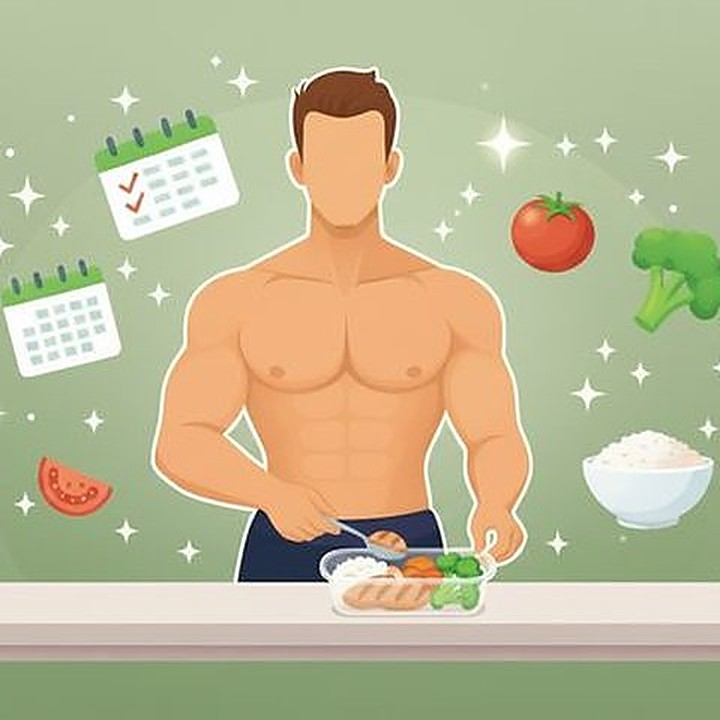
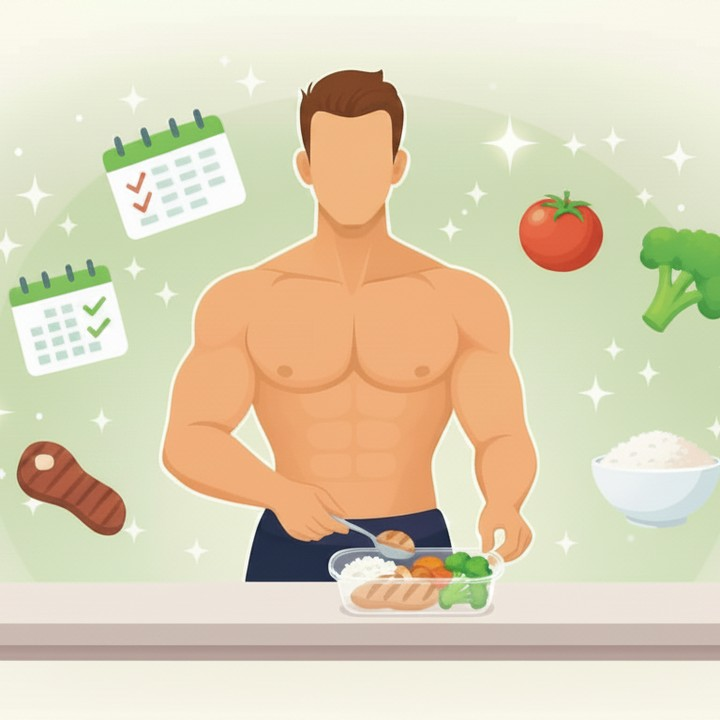
feat(tour): imagens HD novas + backup das originais (v2.1.92)
Usuário regenerou as 7 imagens no Whisk com qualidade HD (1344x768,
~1.4MB cada em PNG). Pipeline refeito sem perda de qualidade:

- tour-images/originals/tour-N.png — backup das PNGs originais preservado
  em git (9.8 MB total) pra regenerações futuras
- tour-images/tour-N.jpg — processado com center crop 768x768 + downscale
  LANCZOS pra 720x720, quality 90, optimize=True
- Sem upscale intermediário — downscale 768→720 é quase nulo, mantém
  praticamente toda a nitidez original
- Tamanho final: ~54-72 KB por imagem (2x retina pra card 340px)

SW v2.1.91 → v2.1.92, cache busters → 2192 (inclui src de tour-card-img)

diff --git a/index.html b/index.html
@@ -17,7 +17,7 @@
 <script src="https://www.gstatic.com/firebasejs/10.12.0/firebase-auth-compat.js"></script>
 <script src="https://www.gstatic.com/firebasejs/10.12.0/firebase-firestore-compat.js"></script>
 <script src="https://cdnjs.cloudflare.com/ajax/libs/jspdf/2.5.1/jspdf.umd.min.js"></script>
-<link rel="stylesheet" href="styles.css?v=2191">
+<link rel="stylesheet" href="styles.css?v=2192">
 <script>
   // v2.1.37: aplica o tema (data-theme) ANTES do CSS pintar pra evitar flash.
   // v2.1.51: default é 'light'. Usuário pode mudar pra 'dark' ou 'auto' no
@@ -635,8 +635,8 @@
 </div><!-- /app-container -->
 
 <script src="glyphs.js?v=2114"></script>
-<script src="data.js?v=2191"></script>
-<script src="legal-docs.js?v=2191"></script>
-<script src="app.js?v=2191"></script>
+<script src="data.js?v=2192"></script>
+<script src="legal-docs.js?v=2192"></script>
+<script src="app.js?v=2192"></script>
 </body>
 </html>

diff --git a/app.js b/app.js
@@ -4884,7 +4884,7 @@ function _renderTourStep() {
 
   card.className = 'tour-card' + (isCentered ? ' centered' : '');
   const imgHtml = step.image
-    ? '<img class="tour-card-img" src="' + step.image + '?v=2191" alt="">'
+    ? '<img class="tour-card-img" src="' + step.image + '?v=2192" alt="">'
     : '';
   card.innerHTML =
     imgHtml +

diff --git a/sw.js b/sw.js
@@ -1,4 +1,4 @@
-const CACHE_NAME = 'dieta-v2.1.91';
+const CACHE_NAME = 'dieta-v2.1.92';
 
 self.addEventListener('install', e => {
   self.skipWaiting();
